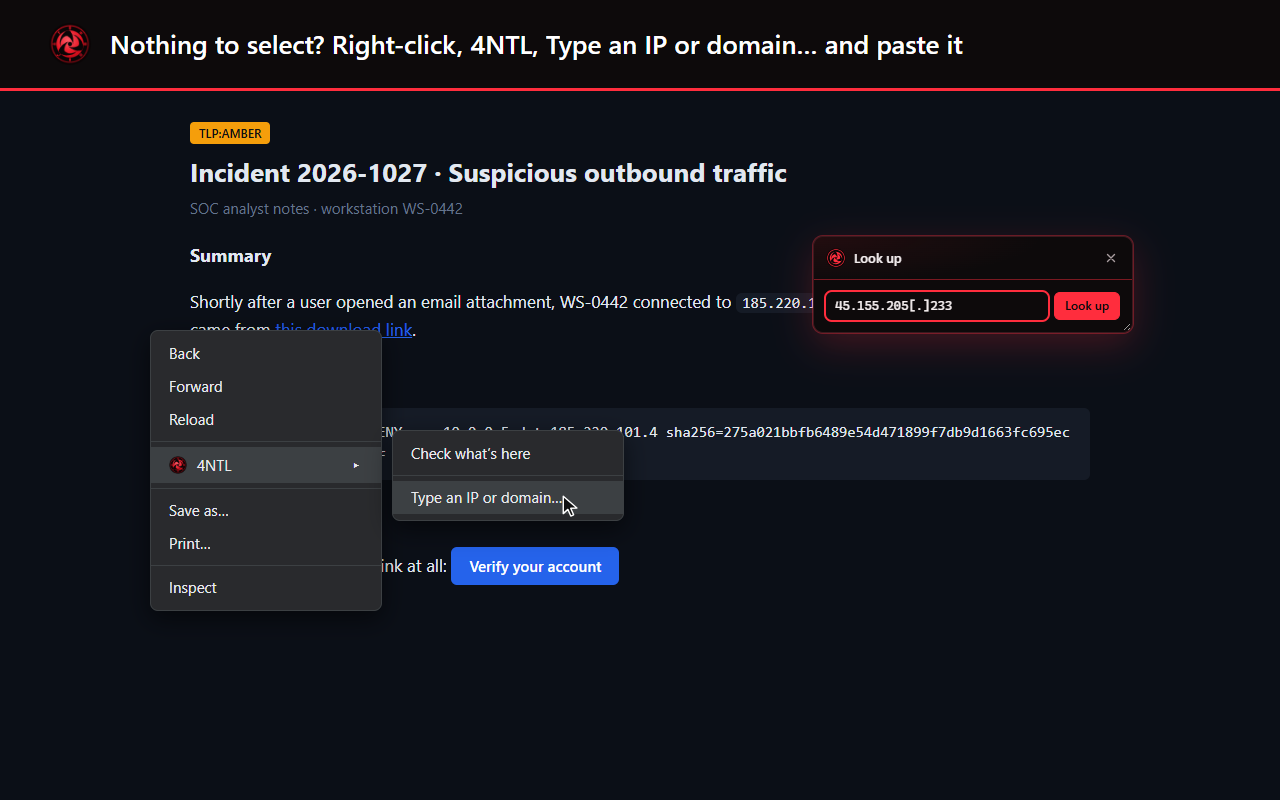
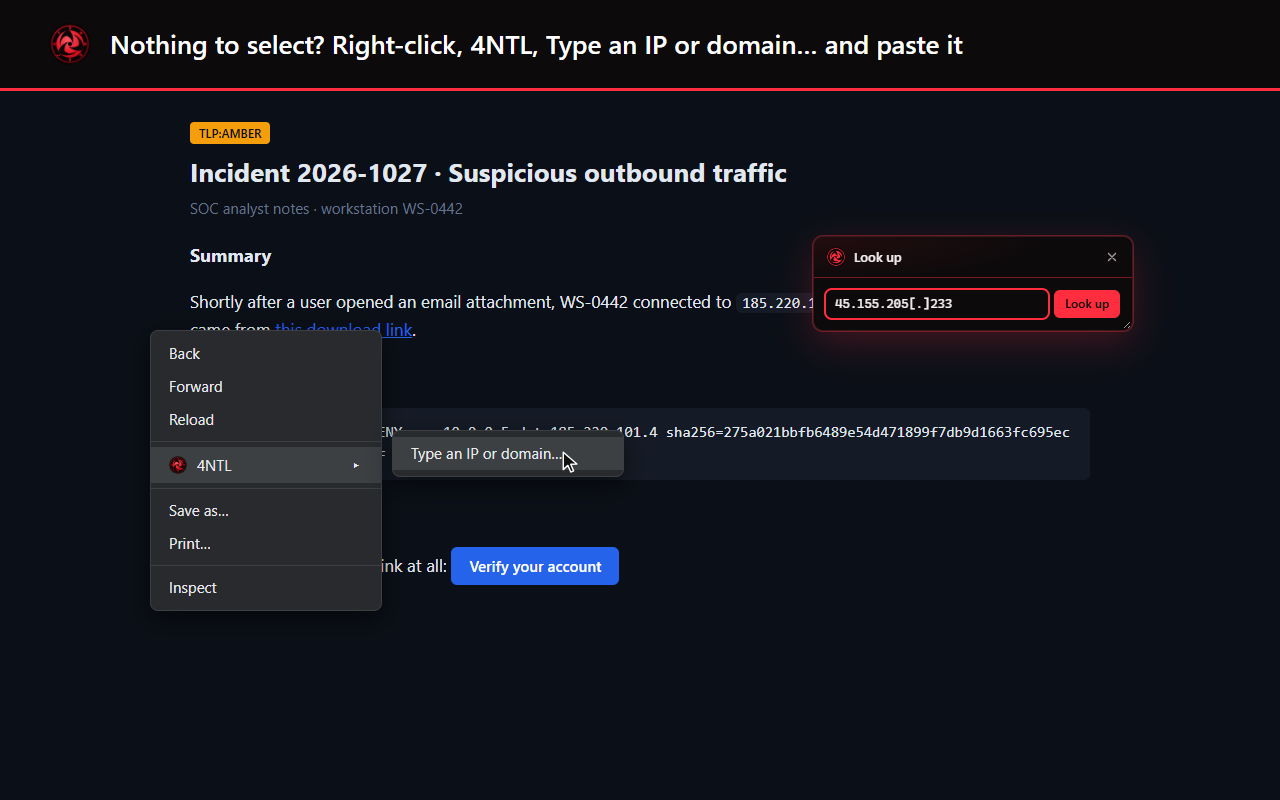
v0.13.0: Look up another, anticlockwise eye, Check what's here removed
- A magnifier on the result card goes back to the typing box with the last
  value selected, so the next indicator needs no close and reopen.
- The Sharingan-theme eye turns once anticlockwise as the card appears and
  keeps turning anticlockwise while loading.
- "Check what's here" is gone (unreliable on real pages); its tests, demo
  scene and store screenshot 3 with it. Header buttons sit closer so the
  indicator keeps its room; settings help and README updated.

Changed region(s): [[0.625, 0.3125, 0.875, 0.4375], [0.2812, 0.5625, 0.5, 0.6562]]

diff --git a/e2e/links.spec.ts b/e2e/links.spec.ts
@@ -28,7 +28,6 @@ const URL_ROUTES: FakeRoute[] = [
 
 type Hook =
   | 'simulateShortcut'
-  | 'simulateElementClick'
   | 'simulateAskClick'
   | 'simulateLinkClick'
   | 'simulateOmnibox'
@@ -58,40 +57,6 @@ test.describe('links that are not plain links', () => {
     await page.goto(APP_URL);
   });
 
-  test('a card or button with a data-href', async ({ page, worker }) => {
-    await page.locator('#card').hover();
-    await hook(worker, 'simulateElementClick', APP_URL);
-    await expect(card(page).locator('.ioc')).toHaveText('https://evil.com/card');
-    await expect(card(page).locator('[data-provider="virustotal"] .pill')).toHaveText('Suspicious');
-  });
-
-  test('a link hidden under a transparent overlay ("the whole tile is clickable")', async ({
-    page,
-    worker,
-  }) => {
-    // Load 4NTL into the page first, so it sees the right-click itself.
-    await hook(worker, 'simulateMenuClick', APP_URL, '8.8.8.8', 'virustotal');
-    await page.keyboard.press('Escape');
-    const link = await page.locator('#tile-link').boundingBox();
-    if (!link) throw new Error('no tile link');
-    await page.mouse.click(link.x + 5, link.y + link.height / 2, { button: 'right' });
-    await hook(worker, 'simulateElementClick', APP_URL);
-    await expect(card(page).locator('.ioc')).toHaveText('https://evil.com/tile');
-  });
-
-  test('a link inside the box that was right-clicked', async ({ page, worker }) => {
-    await page.locator('#post-body').hover();
-    await hook(worker, 'simulateElementClick', APP_URL);
-    await expect(card(page).locator('.ioc')).toHaveText('https://evil.com/post');
-  });
-
-  test('no link at all: the IP written in a table cell', async ({ page, worker }) => {
-    await page.locator('#cell').hover();
-    await hook(worker, 'simulateElementClick', APP_URL);
-    await expect(card(page).locator('.ioc')).toHaveText('185.220.101.4');
-    await expect(card(page).locator('[data-provider="abuseipdb"][data-verdict]')).toBeVisible();
-  });
-
   test('the shortcut looks up what the pointer is over when nothing is selected', async ({
     page,
     worker,
@@ -111,40 +76,6 @@ test.describe('links that are not plain links', () => {
     await page.locator('#wrapped').hover();
     await hook(worker, 'simulateLinkClick', APP_URL, SAFE_LINK);
     await expect(card(page).locator('.ioc')).toHaveText('https://evil.com/login');
-  });
-
-  test('a JavaScript-only button: catches the click and stops the navigation', async ({
-    page,
-    worker,
-    api,
-  }) => {
-    await page.locator('#js-nav').hover();
-    await hook(worker, 'simulateElementClick', APP_URL);
-    await expect(card(page).locator('.title')).toHaveText('Click it to check where it goes');
-
-    await page.locator('#js-nav').click();
-    await expect(card(page).locator('.ioc')).toHaveText('https://evil.com/next-step');
-    await expect(card(page).locator('[data-provider="virustotal"] .pill')).toHaveText('Suspicious');
-    // The page never went there.
-    expect(page.url()).toBe(APP_URL);
-    expect((await api.calls()).map((call) => call.url)).toEqual([
-      `https://www.virustotal.com/api/v3/urls/${Buffer.from('https://evil.com/next-step').toString('base64url')}`,
-    ]);
-  });
-
-  test('a window.open button: caught without opening a window', async ({
-    page,
-    context,
-    worker,
-  }) => {
-    await page.locator('#js-open').hover();
-    await hook(worker, 'simulateElementClick', APP_URL);
-    await expect(card(page).locator('.title')).toHaveText('Click it to check where it goes');
-
-    const pagesBefore = context.pages().length;
-    await page.locator('#js-open').click();
-    await expect(card(page).locator('.ioc')).toHaveText('https://evil.com/popup');
-    expect(context.pages()).toHaveLength(pagesBefore);
   });
 });
 
@@ -292,4 +223,11 @@ test('"Type an IP or domain…": type it in the card, see the verdicts there', a
   await expect(card(page).locator('.ioc')).toHaveText('185.220.101.4');
   await expect(card(page).locator('[data-provider="abuseipdb"][data-verdict]')).toBeVisible();
   await expect(card(page).locator('[data-provider="virustotal"] .logo')).toBeVisible();
+
+  // Another value without closing and reopening: the last one is there, selected.
+  await card(page).getByRole('button', { name: 'Look up another' }).click();
+  await expect(input).toHaveValue('185.220.101.4');
+  await page.keyboard.type('8.8.8.8');
+  await page.keyboard.press('Enter');
+  await expect(card(page).locator('.ioc')).toHaveText('8.8.8.8');
 });

diff --git a/src/ui/styles.ts b/src/ui/styles.ts
@@ -100,23 +100,26 @@ export const CARD_CSS = /* css */ `
   --subtle: color-mix(in srgb, #f1f5f9 8%, var(--bg));
 }
 
-/* The 4NTL eye: shown only in the Sharingan theme; it spins while anything is loading. */
+/* The 4NTL eye: shown only in the Sharingan theme. It turns once anticlockwise as the card
+   appears, and keeps turning (same way) while anything is loading. */
 .eye { display: none; flex: none; width: 20px; height: 20px; }
 .card[data-theme='sharingan'] .eye { display: block; }
 .eye .iris { fill: var(--accent); stroke: #000; stroke-width: 1; }
 .eye .band { fill: none; stroke: #0a0506; stroke-width: 2.3; }
 .eye .pupil, .eye .blade { fill: #0a0506; }
+.eye svg { animation: spin 0.8s cubic-bezier(.2, .7, .3, 1); }
 .card:has([aria-busy='true']) .eye svg { animation: spin 0.9s linear infinite; }
 
 @keyframes enter { from { opacity: 0; transform: translateY(4px); } to { opacity: 1; transform: none; } }
 @keyframes shimmer { from { background-position: 100% 0; } to { background-position: -100% 0; } }
-@keyframes spin { to { transform: rotate(360deg); } }
+@keyframes spin { to { transform: rotate(-360deg); } }
 
 .header {
   display: flex; align-items: center; gap: 8px;
   padding: 8px 8px 8px 12px;
   border-bottom: 1px solid var(--border);
 }
+.header .icon-btn + .icon-btn { margin-left: -4px; } /* buttons sit closer, so the indicator keeps its room */
 .card:not(.inline) .header { cursor: grab; touch-action: none; }
 .card.dragging, .card.dragging .header { cursor: grabbing; user-select: none; }
 .title { flex: 1; min-width: 0; font-weight: 600; overflow: hidden; text-overflow: ellipsis; white-space: nowrap; }
@@ -135,7 +138,7 @@ export const CARD_CSS = /* css */ `
 }
 .icon-btn {
   flex: none; display: inline-grid; place-items: center;
-  width: 26px; height: 26px; padding: 0;
+  width: 24px; height: 24px; padding: 0;
   border: 0; border-radius: 6px; background: transparent; color: var(--muted);
   cursor: pointer;
 }
@@ -260,6 +263,6 @@ export const CARD_CSS = /* css */ `
 .ask-input:focus-visible { outline: 2px solid var(--accent); outline-offset: 0; border-color: transparent; }
 
 @media (prefers-reduced-motion: reduce) {
-  .card, .skeleton span, .card:has([aria-busy='true']) .eye svg { animation: none; }
+  .card, .skeleton span, .eye svg, .card:has([aria-busy='true']) .eye svg { animation: none; }
 }
 `;

diff --git a/src/ui/card.ts b/src/ui/card.ts
@@ -297,6 +297,11 @@ export class ResultCard {
         );
         this.#card.replaceChildren(
           renderIndicatorHeader(indicator, {
+            another: this.#options.client.resolve
+              ? () => {
+                  this.show({ kind: 'ask', value: indicator.value });
+                }
+              : undefined,
             save: (event) => void this.#save(indicator, results, event),
             copy: (event) => {
               const button = event.currentTarget as HTMLElement;
@@ -358,13 +363,13 @@ export class ResultCard {
         this.#card.replaceChildren(renderTitleHeader(view.title, close), renderNotice(view.text));
         break;
       case 'ask':
-        this.#showAsk(viewId, close);
+        this.#showAsk(viewId, close, view.value);
         return;
     }
     this.#place();
   }
 
-  #showAsk(viewId: number, close: () => void): void {
+  #showAsk(viewId: number, close: () => void, value?: string): void {
     const { form, input } = renderAsk((text) => {
       const { client } = this.#options;
       if (!client.resolve) return;
@@ -380,7 +385,7 @@ export class ResultCard {
           this.#note(form, NOT_ANSWERING);
         },
       );
-    });
+    }, value);
     // Keys typed here are ours: page shortcuts (s, /, j, k…) must not fire while typing.
     for (const type of ['keydown', 'keyup', 'keypress']) {
       input.addEventListener(type, (event) => {
@@ -391,6 +396,8 @@ export class ResultCard {
     this.#card.replaceChildren(renderTitleHeader('Look up', close), form);
     this.#place();
     input.focus({ preventScroll: true });
+    // Coming back from a result: the last value is there, selected, so typing replaces it.
+    input.select();
   }
 
   #note(form: HTMLElement, text: string): void {

diff --git a/src/ui/render.ts b/src/ui/render.ts
@@ -69,6 +69,8 @@ function link(url: string | undefined, label: string): HTMLAnchorElement | null 
 }
 
 export interface HeaderActions {
+  /** Back to the typing box to look up something else (where the card can resolve typed text). */
+  readonly another?: (() => void) | undefined;
   readonly save: (event: MouseEvent) => void;
   /** Opens the copy menu. */
   readonly copy: (event: MouseEvent) => void;
@@ -85,6 +87,7 @@ export function renderIndicatorHeader(indicator: Indicator, actions: HeaderActio
     sharinganEye(),
     h('span', { class: 'ioc', attrs: { title: indicator.value } }, indicator.value),
     h('span', { class: 'type' }, INDICATOR_LABELS[indicator.type]),
+    actions.another && iconButton('Look up another', ICONS.search, actions.another),
     iconButton('Save to list', ICONS.save, actions.save),
     copy,
     iconButton('Close', ICONS.close, actions.close),
@@ -308,7 +311,10 @@ export function renderLocked(text: string, actions: LockedActions): HTMLElement 
 }
 
 /** "Type an IP or domain…": a box to type (or paste) an indicator into. */
-export function renderAsk(onSubmit: (text: string) => void): {
+export function renderAsk(
+  onSubmit: (text: string) => void,
+  value = '',
+): {
   readonly form: HTMLFormElement;
   readonly input: HTMLInputElement;
 } {
@@ -322,6 +328,7 @@ export function renderAsk(onSubmit: (text: string) => void): {
       spellcheck: 'false',
     },
   });
+  input.value = value;
   const submit = h('button', { class: 'btn primary', attrs: { type: 'submit' } }, 'Look up');
   const form = h(
     'form',

diff --git a/src/background/menus.ts b/src/background/menus.ts
@@ -1,7 +1,6 @@
 /**
  * Right-click menu: a single "4NTL" entry. Inside it: on a selection, "Look up “…”"
- * plus one entry per provider; on a link, "Check this link"; anywhere else
- * (buttons, cards, images, text fields), "Check what’s here". Everywhere, last:
+ * plus one entry per provider; on a link, "Check this link". Everywhere, last:
  * "Type an IP or domain…". On the toolbar icon, "Saved list".
  */
 import { isProviderId } from '../core/provider-ids';
@@ -11,7 +10,6 @@ import type { ProviderScope } from './view';
 const ROOT_ID = '4ntl';
 const ITEM_PREFIX = '4ntl:lookup:';
 export const LINK_ITEM_ID = '4ntl:link';
-export const ELEMENT_ITEM_ID = '4ntl:element';
 export const ASK_ITEM_ID = '4ntl:ask';
 export const LIST_ITEM_ID = '4ntl:saved-list';
 
@@ -77,21 +75,16 @@ export async function registerMenus(): Promise<void> {
     title: 'Check this link',
     contexts: ['link'],
   });
-  await create({
-    id: ELEMENT_ITEM_ID,
-    parentId: ROOT_ID,
-    title: 'Check what’s here',
-    contexts: ELEMENT_CONTEXTS,
-  });
   const everywhere: [
     `${chrome.contextMenus.ContextType}`,
     ...`${chrome.contextMenus.ContextType}`[],
   ] = ['selection', 'link', ...ELEMENT_CONTEXTS];
+  // Only where entries come before it (on the page itself it's the only entry).
   await create({
     id: `${ROOT_ID}:separator-ask`,
     parentId: ROOT_ID,
     type: 'separator',
-    contexts: everywhere,
+    contexts: ['selection', 'link'],
   });
   await create({
     id: ASK_ITEM_ID,

diff --git a/src/options/options.html b/src/options/options.html
@@ -127,14 +127,12 @@
             <code>1.2.3[.]4</code> or <code>hxxps://evil[.]com</code> work too.
           </li>
           <li>Right-click it → <b>4NTL</b> → <b>Look up “…”</b>, or one provider.</li>
+          <li>Right-click a link → <b>4NTL</b> → <b>Check this link</b>.</li>
           <li>
-            Right-click a link → <b>4NTL</b> → <b>Check this link</b>, or a button, card or table
-            cell → <b>4NTL</b> → <b>Check what’s here</b>. If it has no address until clicked, click
-            it once: 4NTL catches where it goes and stops it from opening.
-          </li>
-          <li>
-            Click the 4NTL toolbar icon to check the page you're on, or type <code>4ntl</code> and a
-            space in the address bar, then paste a link or indicator.
+            Nothing to select? Click the 4NTL toolbar icon, or right-click → <b>4NTL</b> →
+            <b>Type an IP or domain…</b>, then type or paste it. After a result, the magnifier on
+            the card takes you back to look up another. Or type <code>4ntl</code> and a space in the
+            address bar, then paste a link or indicator.
           </li>
           <li>
             Or press <kbd id="shortcut">Alt+Shift+L</kbd> to check the selection, or whatever the

diff --git a/src/background/menus.test.ts b/src/background/menus.test.ts
@@ -44,7 +44,6 @@ describe('registerMenus', () => {
       ['4ntl:lookup:abuseipdb', '4ntl', 'AbuseIPDB only', 'normal'],
       ['4ntl:lookup:virustotal', '4ntl', 'VirusTotal only', 'normal'],
       ['4ntl:link', '4ntl', 'Check this link', 'normal'],
-      ['4ntl:element', '4ntl', 'Check what’s here', 'normal'],
       ['4ntl:separator-ask', '4ntl', undefined, 'separator'],
       ['4ntl:ask', '4ntl', 'Type an IP or domain…', 'normal'],
       ['4ntl:saved-list', undefined, 'Saved list', 'normal'],
@@ -52,8 +51,8 @@ describe('registerMenus', () => {
     const element = ['page', 'image', 'frame', 'video', 'audio', 'editable'];
     expect(created[0]?.contexts).toEqual(['selection', 'link', ...element]);
     expect(created.slice(1, 5).every((item) => item.contexts?.join() === 'selection')).toBe(true);
-    expect(created.at(-5)?.contexts).toEqual(['link']);
-    expect(created.at(-4)?.contexts).toEqual(element);
+    expect(created.at(-4)?.contexts).toEqual(['link']);
+    expect(created.at(-3)?.contexts).toEqual(['selection', 'link']); // no leading separator
     // "Type an IP or domain…" wherever 4NTL shows up.
     expect(created.at(-2)?.contexts).toEqual(created[0]?.contexts);
     expect(created.at(-1)?.contexts).toEqual(['action']);

diff --git a/src/background/index.ts b/src/background/index.ts
@@ -25,7 +25,6 @@ import { LookupService } from './lookup-service';
 import { Payments } from './payments';
 import {
   ASK_ITEM_ID,
-  ELEMENT_ITEM_ID,
   LINK_ITEM_ID,
   LIST_ITEM_ID,
   menuItemId,
@@ -157,7 +156,7 @@ async function onMenuClick(info: MenuClick, tab: chrome.tabs.Tab | undefined): P
     await presentView(ASK_VIEW, target, deps);
     return;
   }
-  if (info.menuItemId === LINK_ITEM_ID || info.menuItemId === ELEMENT_ITEM_ID) {
+  if (info.menuItemId === LINK_ITEM_ID) {
     await checkLink({ target, linkUrl: info.linkUrl, pageUrl: info.pageUrl }, linkDeps);
     return;
   }
@@ -277,10 +276,6 @@ if (__E2E__) {
       async simulateLinkClick(tab: string | number, linkUrl: string) {
         const found = await tabFor(tab);
         await onMenuClick({ menuItemId: LINK_ITEM_ID, linkUrl, pageUrl: found.url ?? '' }, found);
-      },
-      async simulateElementClick(tab: string | number) {
-        const found = await tabFor(tab);
-        await onMenuClick({ menuItemId: ELEMENT_ITEM_ID, pageUrl: found.url ?? '' }, found);
       },
       async simulateAskClick(tab: string | number) {
         await onMenuClick({ menuItemId: ASK_ITEM_ID }, await tabFor(tab));

diff --git a/src/ui/card.test.ts b/src/ui/card.test.ts
@@ -306,6 +306,19 @@ describe('ResultCard – other views', () => {
     expect($('.note')?.textContent).toContain('Reload on 4NTL');
   });
 
+  it('"Look up another" goes back to the box with the last value selected, then looks up the new one', async () => {
+    const { card, client: c, $ } = mount();
+    card.show(LOOKUP_VIEW);
+    $('[aria-label="Look up another"]')?.click();
+    const input = $('.ask-input') as HTMLInputElement;
+    expect(input.value).toBe(IP.value);
+    expect([input.selectionStart, input.selectionEnd]).toEqual([0, IP.value.length]);
+    input.value = '8.8.8.8';
+    $('.ask')?.dispatchEvent(new Event('submit', { cancelable: true }));
+    await flush();
+    expect(c.resolve).toHaveBeenCalledWith('8.8.8.8');
+  });
+
   it('typing box: keys stay in the card (no page shortcuts), Escape closes', () => {
     const { card, $ } = mount();
     card.show({ kind: 'ask' });

diff --git a/src/core/messages.ts b/src/core/messages.ts
@@ -35,8 +35,8 @@ export type CardView =
       readonly banner?: string;
     }
   | { readonly kind: 'notice'; readonly title: string; readonly text: string }
-  /** "Type an IP or domain…": a box to type what to look up. */
-  | { readonly kind: 'ask' }
+  /** "Type an IP or domain…": a box to type what to look up (`value`: start with this, selected). */
+  | { readonly kind: 'ask'; readonly value?: string }
   /** Store edition after the free days: the unlock offer instead of results. */
   | { readonly kind: 'locked'; readonly text: string };
 

diff --git a/src/background/links.ts b/src/background/links.ts
@@ -1,6 +1,5 @@
 /**
- * "4NTL ▸ Check this link / Check what’s here": works out where a right-clicked
- * link, button or card leads, in order of reliability:
+ * "4NTL ▸ Check this link": works out where a right-clicked link leads, in order of reliability:
  *   1. the browser's own link address, when it's a real one;
  *   2. what the page says (handlers, data attributes, forms…), via the content script;
  *   3. catching the navigation when the user clicks it (JavaScript-only buttons).

diff --git a/src/ui/dom.ts b/src/ui/dom.ts
@@ -88,4 +88,5 @@ export const ICONS = {
   copy: 'M5.5 5.5V3.5a1 1 0 011-1h6a1 1 0 011 1v6a1 1 0 01-1 1h-2M3.5 5.5h6a1 1 0 011 1v6a1 1 0 01-1 1h-6a1 1 0 01-1-1v-6a1 1 0 011-1z',
   check: 'M3.5 8.5l3 3 6-7',
   save: 'M4.5 2.5h7a.5.5 0 01.5.5v10.5l-4-2.75-4 2.75V3a.5.5 0 01.5-.5z',
+  search: 'M10.5 6.75a3.75 3.75 0 1 1-7.5 0 3.75 3.75 0 0 1 7.5 0zM9.5 9.5l3.5 3.5',
 } as const;
